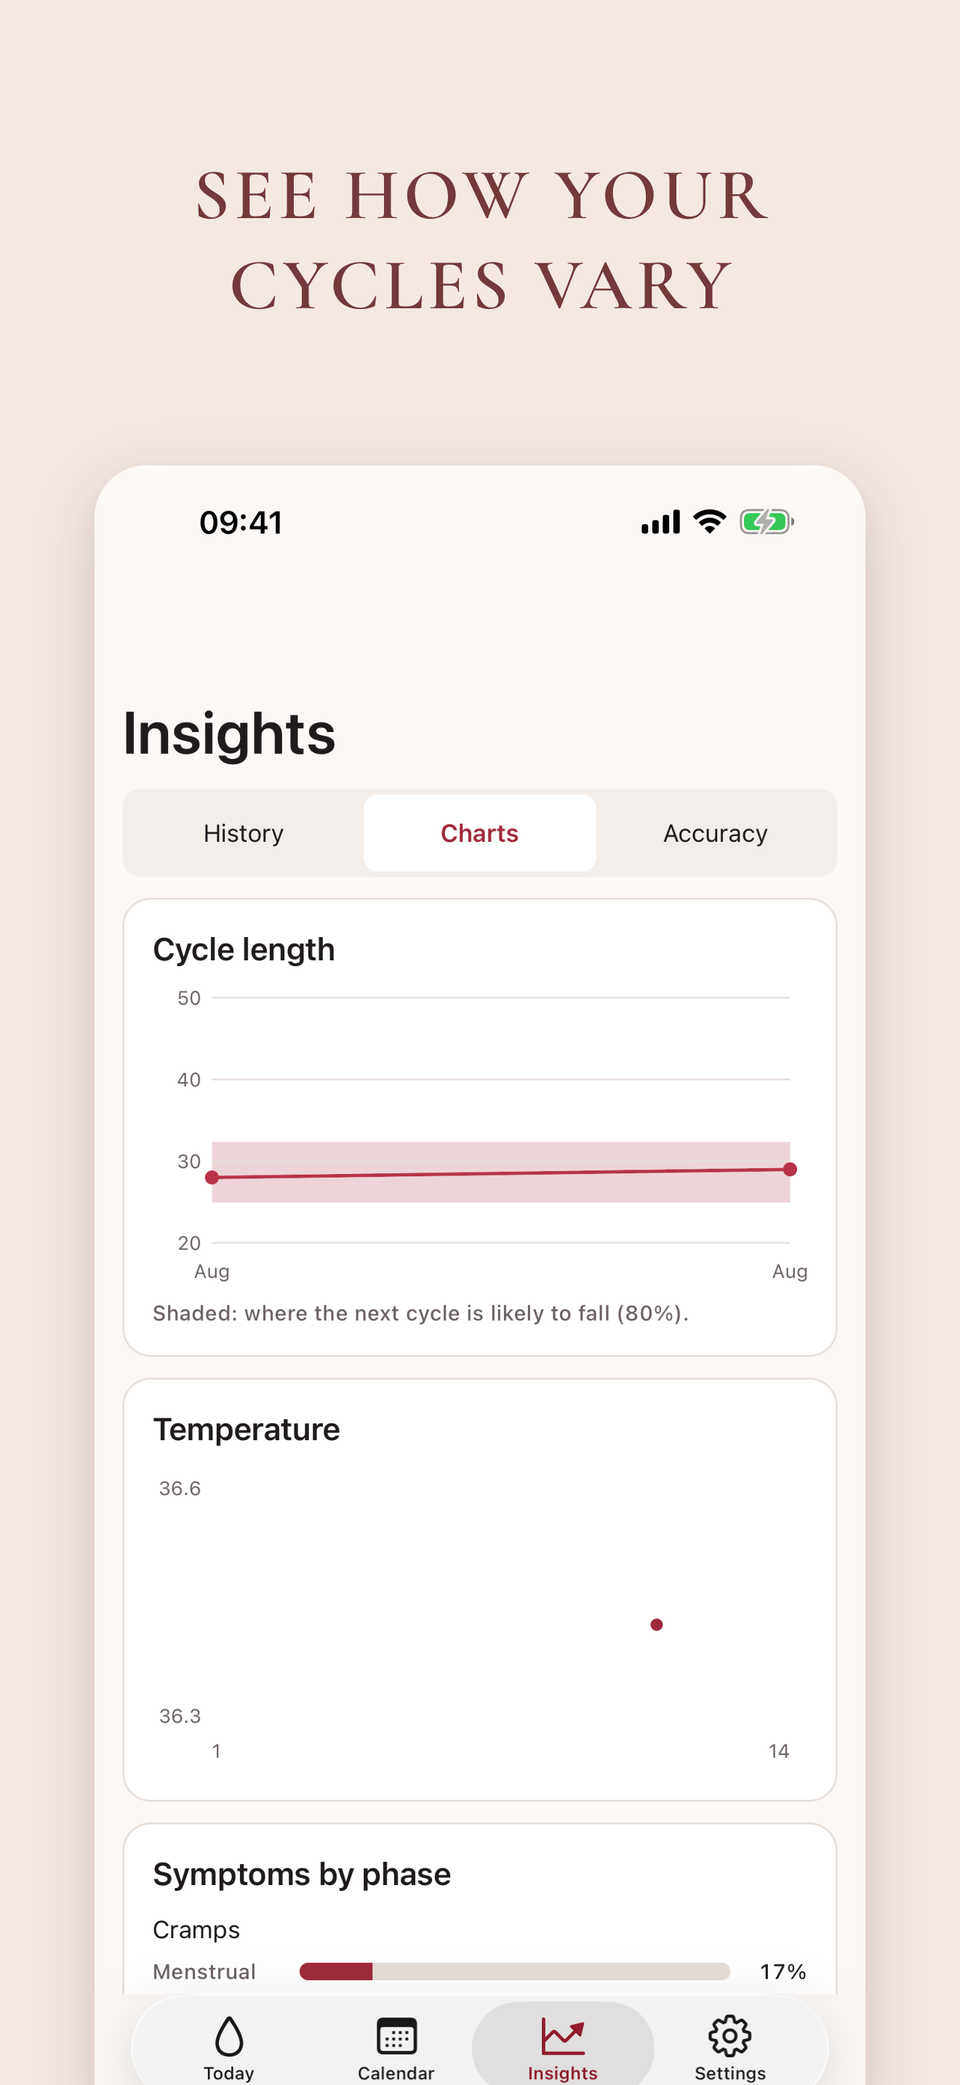
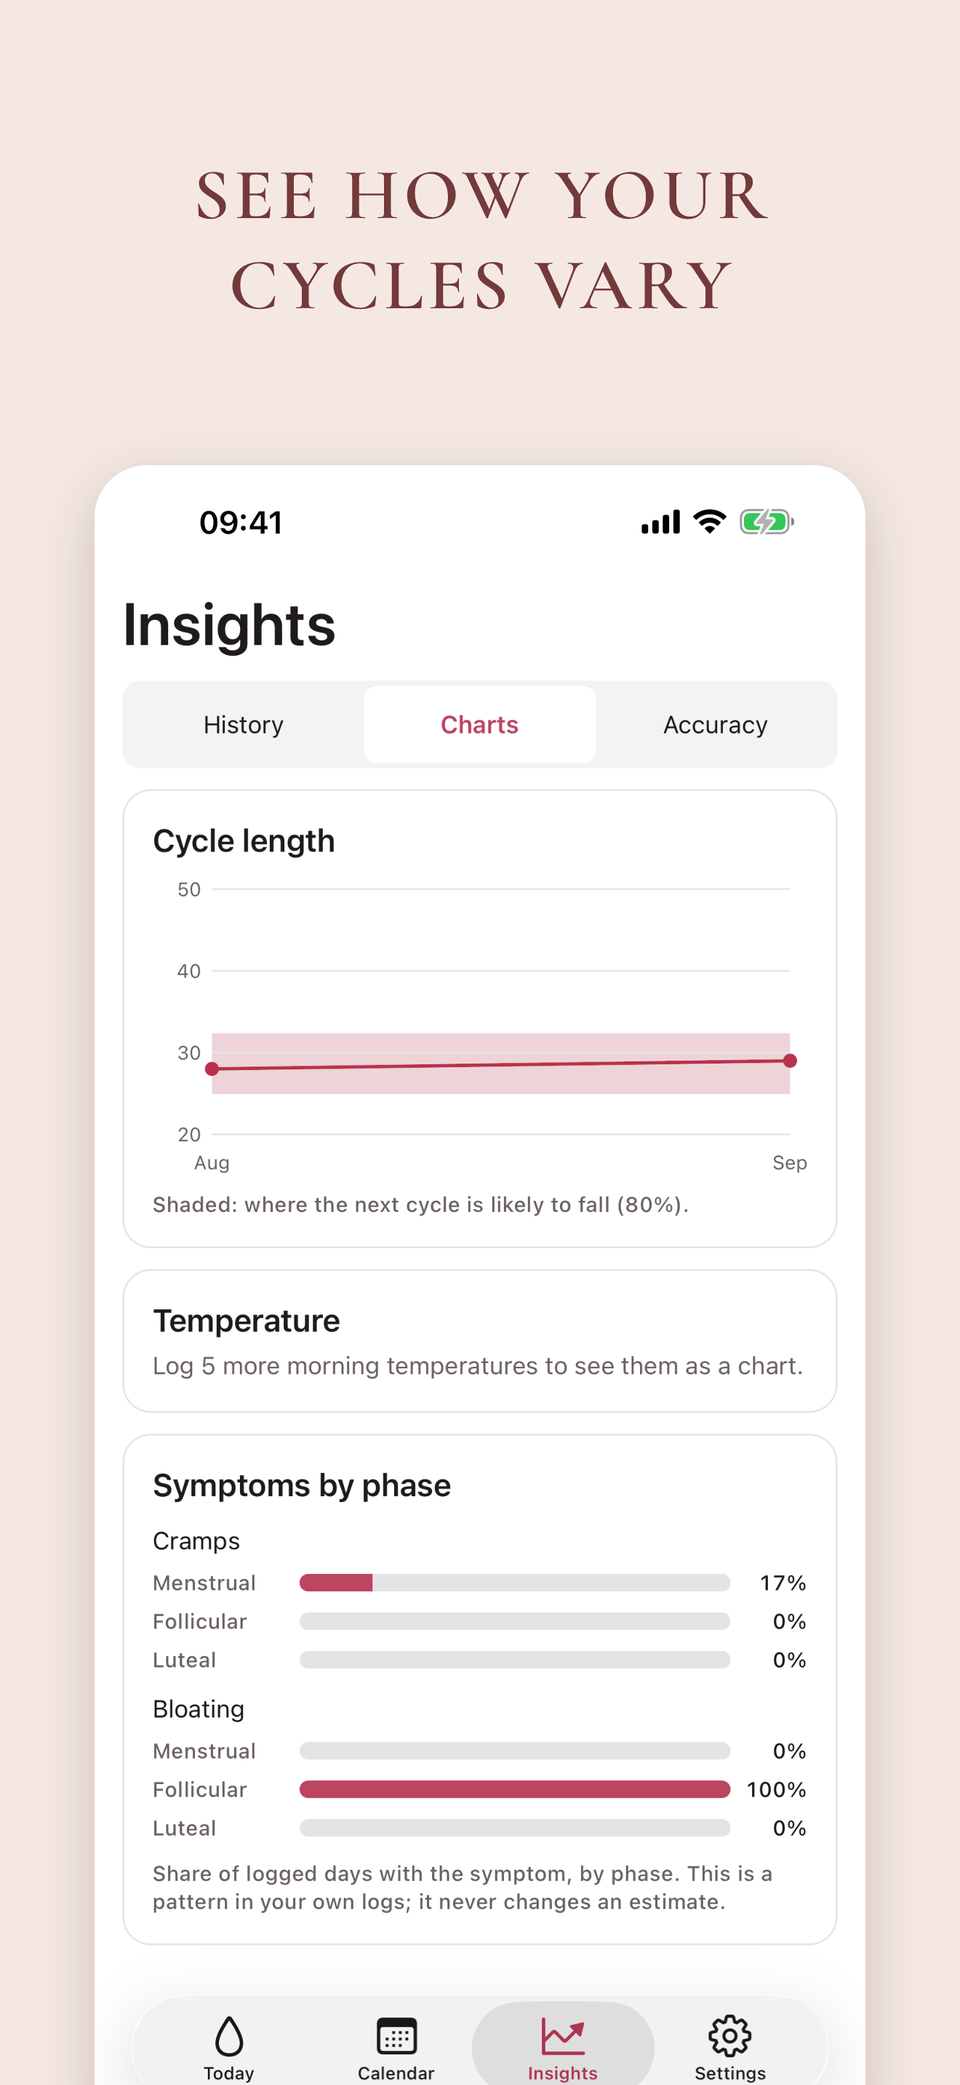
P5-5 store screenshots re-shot after D-076 (iOS slides from the final suite captures); Android retake noted for P3-14
tools/brand/store.ts reads the iOS captures from docs/screenshots/D-076-final-devclient; the six App Store slides are regenerated. The Play slides keep the pre-D-076 captures until the next Android pass (DECISIONS D-072, BACKLOG P3-14).

diff --git a/tools/brand/store.ts b/tools/brand/store.ts
@@ -17,12 +17,12 @@ const FONT = 'Cormorant Garamond';
 
 /** One store screenshot: caption lines, the iOS and Android source captures, and whether it is the dark slide. */
 export const SLIDES = [
-  { name: '01-today', caption: ['Your next period,', 'as a range'], ios: 'suite-p4-devclient/ios-typical.png', android: 'P3-1-devclient/android-typical.png' },
-  { name: '02-log', caption: ['Log your day', 'in two taps'], ios: 'suite-p4-devclient/ios-sheet-symptoms.png', android: 'P3-1-devclient/android-sheet-symptoms.png' },
-  { name: '03-calendar', caption: ['Your whole cycle', 'at a glance'], ios: 'suite-p4-devclient/ios-month.png', android: 'P3-1-devclient/android-month.png' },
-  { name: '04-insights', caption: ['See how your', 'cycles vary'], ios: 'suite-p4-devclient/ios-charts.png', android: 'P3-1-devclient/android-charts.png' },
-  { name: '05-privacy', caption: ['Stays on your phone,', 'encrypted'], ios: 'suite-p4-devclient/ios-privacy-discretion.png', android: 'P3-1-devclient/android-step5-privacy.png' },
-  { name: '06-dark', caption: ['No account.', 'No tracking.'], ios: 'suite-p4-devclient/ios-typical-dark.png', android: 'P3-1-devclient/android-typical-dark.png', dark: true },
+  { name: '01-today', caption: ['Your next period,', 'as a range'], ios: 'D-076-final-devclient/ios-typical.png', android: 'P3-1-devclient/android-typical.png' },
+  { name: '02-log', caption: ['Log your day', 'in two taps'], ios: 'D-076-final-devclient/ios-sheet-symptoms.png', android: 'P3-1-devclient/android-sheet-symptoms.png' },
+  { name: '03-calendar', caption: ['Your whole cycle', 'at a glance'], ios: 'D-076-final-devclient/ios-month.png', android: 'P3-1-devclient/android-month.png' },
+  { name: '04-insights', caption: ['See how your', 'cycles vary'], ios: 'D-076-final-devclient/ios-charts.png', android: 'P3-1-devclient/android-charts.png' },
+  { name: '05-privacy', caption: ['Stays on your phone,', 'encrypted'], ios: 'D-076-final-devclient/ios-privacy-discretion.png', android: 'P3-1-devclient/android-step5-privacy.png' },
+  { name: '06-dark', caption: ['No account.', 'No tracking.'], ios: 'D-076-final-devclient/ios-typical-dark.png', android: 'P3-1-devclient/android-typical-dark.png', dark: true },
 ] as const;
 
 /** Canvas per store: App Store 6.9" (1320 x 2868); Play 9:16 (1080 x 1920, the size Play asks for to be eligible for recommendation). */

diff --git a/docs/DECISIONS.md b/docs/DECISIONS.md
@@ -135,7 +135,7 @@ Status: open = not yet checked, carried by the owning backlog item; applied = co
 - D-069 (2026-10-09) EAS Update, production included (owner's decision). The owner asked for over-the-air updates in every build and confirmed that network access is allowed for them, so the CLAUDE.md network rule now names the update check as its second exception. (1) `expo-updates` with `app.config.ts` layered on `app.json`: `updates.url` from the EAS project id, `checkAutomatically: ON_LOAD`, `fallbackToCacheTimeout: 0` (launch never waits on the network; a downloaded update applies on the next cold start). Channels `development`, `preview`, `production` in `eas.json`; publishing is manual (`pnpm update:preview`, `pnpm update:production` with `--message`), never from CI, so `tools/ci/store.test.ts` keeps failing any workflow that publishes. (2) Engine changes still never ship over the air (PLAN.md §6.6, RK-13): `runtimeVersion` hashes `packages/engine/src` (first via the fingerprint policy, since D-071 via a hash of tracked files), so any engine or parameter edit produces a new runtime version that no installed build accepts. Verified by generating the fingerprint before, during and after a probe edit to `params.ts` (hash changed, then returned). (3) What leaves the phone: each launch sends Expo's update service the app and runtime version, platform, channel, a random installation id generated by expo-updates, and the IP address; no cycle or health data. Disclosed in `docs/privacy-policy.md` §6 and `docs/dpia.md`. Needs human: the App Store privacy label and privacy manifest (D-058) still say no data collected; whether Apple treats the update check's IP and installation id as collected data must be checked before the next store submission. Rejected: updates in internal builds only (the owner wants fixes to reach users); a `requestHeaders` override to drop the installation id (the update service uses it for rollouts and the header is not documented as optional).
 - D-070 (2026-10-09) Android pass P3-14 and Health Connect check, run on the emulator at the owner's request that day. Result on a fresh dev build (API 35): the Android suite ran 14 flows and passed all but five at first; the five were fixed or were test setup and pass on rerun: temperatures read in °F because the emulator's region is US and the new first-run default follows the device (the seed route now pins °C), a scroll to a long symptom list timed out (timeout raised), and a developer-menu or bundle-load flake on opening. The database is encrypted on Android (at-rest check). Health Connect: the platform knows and the package manager granted every permission string in `app.json` (READ and WRITE for menstruation, intermenstrual bleeding, basal body temperature, ovulation test, cervical mucus, sexual activity; READ for skin temperature, history and background), which closes D-060 (7); the first pass runs end to end (initialise, a changes token, a read, "Added 0" on an empty store). Not run: importing and writing real Health Connect records (needs the Health Connect Toolbox) and the hourly background task firing. Found: changing `android.package` leaves two installs answering the `sanguine://` links, so flows must run against one (the Maestro runner now reads the package from `app.json`); the system switch thumb was teal (set to white), the native tab ripple and window primary colour were blue (now the accent); the cloud copy told the user "Uploaded" when it had skipped because the phone was not on Wi-Fi (now says it waits). One run of `cloud-backup.yaml` failed on opening the app (the same flake) and was not repeated, because the owner then reinstated the iOS-only testing rule and the emulator was shut down; P3-14 stays open for that one flow and for the Health Connect Toolbox check.
 - D-071 (2026-10-09) EAS Update runtime version from tracked files (fixes the first production build, which failed in "Configure expo-updates" with a runtime version mismatch). The `fingerprint` policy of D-069 hashed native packages in the hoisted `../../node_modules`, where local Android builds leave `android/build`, `.cxx` and `libsodium/build` output and config-plugin resolution differs; the default fingerprint ignore list does not reach outside the project root, so the developer machine and EAS never agreed. Now `app.config.ts` sets `runtimeVersion` to `<version>-<sha256 of pnpm-lock.yaml, app.json and packages/engine/src, 12 hex>`; the same files exist in the EAS archive, so both sides compute the same string. Stricter than the fingerprint: any dependency or app.json change also needs a store build. The engine guard of D-069 (2) holds (an engine edit changes the hash; tested in `tools/ci/updates.test.ts`). Rejected: chasing per-package ignore paths (a new native dependency or local build can break it again silently); `appVersion` policy (an engine change would ship over the air unless someone bumped the version).
-- D-072 (2026-10-10) Store data and website (P5-5, owner's request). (1) Contact: the owner gave admin@dothings.lol; it replaces every "TBD (human)" in `docs/privacy-policy.md` and `docs/consumer-health-data-policy.md` and the contact in `SECURITY.md`. The operator is named as "its developer" because no legal name was given; the owner adds one. The open periods became 30 days to assess a suspected breach (the Notifiable Data Breaches scheme's limit) and 7 days to acknowledge and 30 to answer a complaint (the OAIC's expectation). The DRAFT banner is removed from those two, which makes them ready, so the app now shows them (Settings > About); `copy/copy.test.ts` requires the two published policies to have no DRAFT or TBD and keeps the DPIA marked DRAFT. Nobody has given them a legal review (PROGRESS). (2) Website: plain HTML generated by `tools/site/build.ts` from `site/` fragments and the two policies, through `parsePolicy`, the parser the app's copy uses, so the published and in-app policies cannot drift; published to GitHub Pages (`https://amnesthesia.github.io/sanguine/`) by `.github/workflows/pages.yml` with SHA-pinned actions. The pages load nothing from a third party (the font and images are copied in), set no cookies, and use the splash palette and Cormorant like the splash. Rejected: Jekyll (cannot read docs/ without a copy step and could not be built and tested locally); Google Fonts (sends every visitor's IP to Google from a privacy app's own site). (3) Store graphics: `tools/brand/store.ts` frames the simulator captures on the blush field (plum for the dark slide) with a Cormorant caption: App Store 6.9" 1320 x 2868 and Play 9:16 1080 x 1920 (Play's recommendation size; 1080 x 2340 would break Play's 2:1 limit), plus the 1024 x 500 feature graphic and 512 icon. PNGs are written without an alpha channel by a small encoder over node:zlib, since both stores reject alpha and resvg always writes RGBA. The brand colours and font stay out of `packages/ui-tokens` (D-051): store art, like the splash, is outside the app. (4) Privacy answers, the conservative choice for the open question D-069 left: expo-updates sends a random installation id (`EAS-Client-ID`, checked in `FileDownloader.swift`) that Expo keeps to count installs, so it is declared: App Store Identifiers > Device ID, App Functionality, not linked, not tracking, and the same in the privacy manifest (`app.json`, enforced by `tools/ci/store.test.ts`); Play Data safety: Device or other IDs, collected, not shared, App functionality. Rejected: "Data Not Collected" (Apple counts data kept longer than needed to serve the request, and Expo keeps this id); declaring Analytics as a purpose (Expo's count is for billing and rollouts, not for evaluating user behaviour). (5) Listing fix: the description and site no longer say Flo and Clue import, which is not built (P5-1). Needs human: enable Pages (repository Settings > Pages > Source: GitHub Actions); the operator's legal name and the App Store copyright line; the Android status-bar clocks in the Play captures differ (they were taken without demo mode); retake them in the next Android pass if wanted.
+- D-072 (2026-10-10) Store data and website (P5-5, owner's request). (1) Contact: the owner gave admin@dothings.lol; it replaces every "TBD (human)" in `docs/privacy-policy.md` and `docs/consumer-health-data-policy.md` and the contact in `SECURITY.md`. The operator is named as "its developer" because no legal name was given; the owner adds one. The open periods became 30 days to assess a suspected breach (the Notifiable Data Breaches scheme's limit) and 7 days to acknowledge and 30 to answer a complaint (the OAIC's expectation). The DRAFT banner is removed from those two, which makes them ready, so the app now shows them (Settings > About); `copy/copy.test.ts` requires the two published policies to have no DRAFT or TBD and keeps the DPIA marked DRAFT. Nobody has given them a legal review (PROGRESS). (2) Website: plain HTML generated by `tools/site/build.ts` from `site/` fragments and the two policies, through `parsePolicy`, the parser the app's copy uses, so the published and in-app policies cannot drift; published to GitHub Pages (`https://amnesthesia.github.io/sanguine/`) by `.github/workflows/pages.yml` with SHA-pinned actions. The pages load nothing from a third party (the font and images are copied in), set no cookies, and use the splash palette and Cormorant like the splash. Rejected: Jekyll (cannot read docs/ without a copy step and could not be built and tested locally); Google Fonts (sends every visitor's IP to Google from a privacy app's own site). (3) Store graphics: `tools/brand/store.ts` frames the simulator captures on the blush field (plum for the dark slide) with a Cormorant caption: App Store 6.9" 1320 x 2868 and Play 9:16 1080 x 1920 (Play's recommendation size; 1080 x 2340 would break Play's 2:1 limit), plus the 1024 x 500 feature graphic and 512 icon. PNGs are written without an alpha channel by a small encoder over node:zlib, since both stores reject alpha and resvg always writes RGBA. The brand colours and font stay out of `packages/ui-tokens` (D-051): store art, like the splash, is outside the app. (4) Privacy answers, the conservative choice for the open question D-069 left: expo-updates sends a random installation id (`EAS-Client-ID`, checked in `FileDownloader.swift`) that Expo keeps to count installs, so it is declared: App Store Identifiers > Device ID, App Functionality, not linked, not tracking, and the same in the privacy manifest (`app.json`, enforced by `tools/ci/store.test.ts`); Play Data safety: Device or other IDs, collected, not shared, App functionality. Rejected: "Data Not Collected" (Apple counts data kept longer than needed to serve the request, and Expo keeps this id); declaring Analytics as a purpose (Expo's count is for billing and rollouts, not for evaluating user behaviour). (5) Listing fix: the description and site no longer say Flo and Clue import, which is not built (P5-1). Needs human: enable Pages (repository Settings > Pages > Source: GitHub Actions); the operator's legal name and the App Store copyright line; the Android status-bar clocks in the Play captures differ (they were taken without demo mode) and, since D-076, the Play slides still show the pre-D-076 layout; retake them in the next Android pass (P3-14).
 - D-073 (2026-10-10) Owner's feedback on the first device build. (1) Date picker: the custom day/month/year steppers (with ±10-year buttons for a date of birth) are replaced by the system picker through `@expo/ui/community/datetime-picker`, already a dependency: on iOS the compact SwiftUI picker (a date button opening the system calendar and its month-and-year wheel), on Android a field opening the Material 3 date dialog with its year list (`apps/mobile/src/ui/DateField.tsx`; `dateStep.ts` deleted). Maestro drives the iOS wheel by tapping the year column above or below the selection until the header shows a target year (`onboarding-agegate.yaml`): only the selected row is in the accessibility tree. Rejected: keeping the steppers next to the picker (two ways to do one thing). (2) The cervical-position row moves to the bottom of the logging sheet's "More" section, after notes: few people check their cervix, so it should not sit above the rows most people use (`moreRows.ts`). Order only; what it feeds into the engine is unchanged. (3) App lock is off by default (`DEFAULT_PREFS.appLock`; amends PLAN.md §8.8 "on by default after onboarding" and D-037 (1)): no Face ID prompt over the splash unless she turns the lock on in Settings, Privacy and data; onboarding now says where to turn it on. Rejected, as the conservative default: keeping it on. The owner chose this; existing installs keep the value they saved. (4) The splash holds the tagline 3.5 s instead of 2 s (`HOLD_MS`), so it can be read unhurried. (5) Play upload failure: Play expects upload key SHA1 B8:1B:BE:57:14:4C:DD:79:0E:67:00:06:98:48:4B:37:99:14:18:F3, the keystore EAS generated on 2026-10-09 for the old package `lol.sanguine.app` (the first AAB uploaded by hand was signed with it). Builds of `app.sanguine.mobile` were signed with EAS keystores 2E:BF… and later 2A:5C…, which Play rejects ("The Android App Bundle was signed with the wrong key", EAS submission 27e5b690). Fix: make `app.sanguine.mobile`'s default EAS build credentials use the B8:1B keystore (EAS keystore id 8a4ccd3b-7160-483e-87f6-e74d93f2163a, still stored under `lol.sanguine.app`). This needs the owner's EAS account action; see the session notes for the command.
 - D-074 (2026-10-10) Website on Astro (owner's request, replaces the hand-written builder of D-072 (2)). `apps/site/` is an Astro 7 project (beside `apps/mobile`, PLAN.md §6.2 layout) (`@sanguine/site`, static output, `build.format: 'file'` so the listing's `.html` URLs resolve, `base: /sanguine` for GitHub Pages, `passthroughImageService` so no sharp). Pages: landing, support, privacy, health-data. The policy pages import `apps/mobile/src/features/legal/policies.generated.ts`, the data the app shows, rather than `tools/ci/policy.ts` (CommonJS `__dirname`, which Vite cannot load), and `pnpm site` runs `pnpm policy` first so the data is fresh; a policy with a TBD fails the build. Images and the Cormorant font are Vite imports from `apps/mobile/assets/brand`, `docs/store/graphics` and `node_modules`, so nothing is copied or committed twice and nothing loads from a third party. Astro is pinned `~7.3.7` because 7.3.8 was younger than pnpm's minimumReleaseAge. `tools/ci/store.test.ts` builds the site with `pnpm site` and checks the pages as before. Rejected: keeping the 59-line builder (the owner asked for Astro); Astro content collections for the policies (a second parser for the same Markdown would let the in-app and published text drift). Store taglines added to `docs/store/listing-en-AU.md`.
 - D-075 (2026-10-10) Fixes from the implementation review (`docs/review/implementation-review.md` items 10-20, plan in `docs/review/action-plan.md`). (1) Preference writes are serialised (`state/serial.ts`): two quick toggles both read the same `prefs` and the second save dropped the first change. Rejected: merging inside `set()` only (the database save would still race). (2) Cycle detail hides the ovulation card (date, basis, luteal length) under 18 unless unlocked, like Today, Calendar and Insights; `teenAudit.test.ts` and `teen.yaml` cover it. (3) Deleting an entry on day detail asks first; the event log keeps it as a retraction, but the screen has no way to bring it back. Rejected: an Undo bar (re-appending the payload would create a second event with a new id and no link to the original). (4) Any database-open failure other than the key mismatch now shows a localised screen with "Try again" (`retry` re-runs `init`; `appData()` does not cache a failed open) and keeps the error text selectable for a support question; it previously showed hard-coded English with no action. (5) Onboarding says why Finish does not respond until the consent box (or both boxes, in explicit-consent regions) is ticked. (6) Clinical constants that live outside `params.ts` are named in the C-table, so a reviewer finds them without reading the code; the engine is unchanged. The `predict.ts` confidence-grade cut-offs (`NEXT_HIGH_MIN_CYCLES`, `NEXT_HIGH_MAX_HALFWIDTH`, `NEXT_MEDIUM_MAX_HALFWIDTH`) and `combine.ts: CERVIX_WEIGHT_CAP` are one constant each in their files. (7) Age-band prior above 45: Bull 2019 publishes bands only to 45, so 46 and over use the population mean (29.3 d), the same rule as under 18; recorded as applied, not changed. Rejected: extending the 41-45 band (27.4 d) upwards, which would assert a published mean that does not exist. (8) Not changed after checking: the missed-period threshold (the engine passes the gated, age-banded 95% bound from `predict`; the ungated fallback in `flags.ts` serves direct calls in tests only); `batch()` rebuilding projections after its writes (every reader refreshes after `batch` returns; documented in `store.ts`); `measured_at` time parsing (every writer stores local wall-clock time).

diff --git a/docs/BACKLOG.md b/docs/BACKLOG.md
@@ -65,7 +65,7 @@ Screens (each item: component tests + a Maestro flow on both simulators; match `
 - [x] P3-11 Mockup weekday labels corrected (10 Oct 2026 is a Saturday). (client review 1 #5)
 - [x] P3-12 Pregnancy outcome (birth / loss) on ending the pregnant state; post-pregnancy bleeding kind; "I was pregnant" action on long cycles; neutral long-cycle wording. (§4.9, client review 1 #2)
 - [x] P3-13 Natural Cycles import: the app's daily-entries export (.xlsx, or the same columns as CSV, plain or as "Daily Entries.csv" in a zip) imports flow (including bleeding after a loss), temperature, LH and pregnancy tests, mucus, symptoms and notes through the shared DailyRow writer (`data/importDaily.ts`, `data/importNaturalCycles.ts`); what it cannot map is reported (D-056). (§8.10, client review 1 #1)
-- [ ] P3-14 (mostly done, D-070: suite, encryption and the Health Connect first pass checked on the emulator; left: `cloud-backup.yaml` on Android, the Health Connect Toolbox import and the hourly task) Full Android check and fix-up, run as one dedicated pass when memory allows (owner decision 2026-10-09: iOS-only testing until then): rebuild the Android dev client, run `.maestro/suite.sh android` and `fontscale.sh android`, retake the Android screenshots, fix what fails (known untested: app lock through the device-credential prompt; Android launcher-alias deep links; dark-mode toolbar contrast), and record the outcome.
+- [ ] P3-14 (mostly done, D-070: suite, encryption and the Health Connect first pass checked on the emulator; left: `cloud-backup.yaml` on Android, the Health Connect Toolbox import and the hourly task, the Play store captures (the iOS slides were re-shot after D-076, the Android ones still show the old layout)) Full Android check and fix-up, run as one dedicated pass when memory allows (owner decision 2026-10-09: iOS-only testing until then): rebuild the Android dev client, run `.maestro/suite.sh android` and `fontscale.sh android`, retake the Android screenshots, fix what fails (known untested: app lock through the device-credential prompt; Android launcher-alias deep links; dark-mode toolbar contrast), and record the outcome.
 
 ## Phase 4 — Health sync (§7)
 
